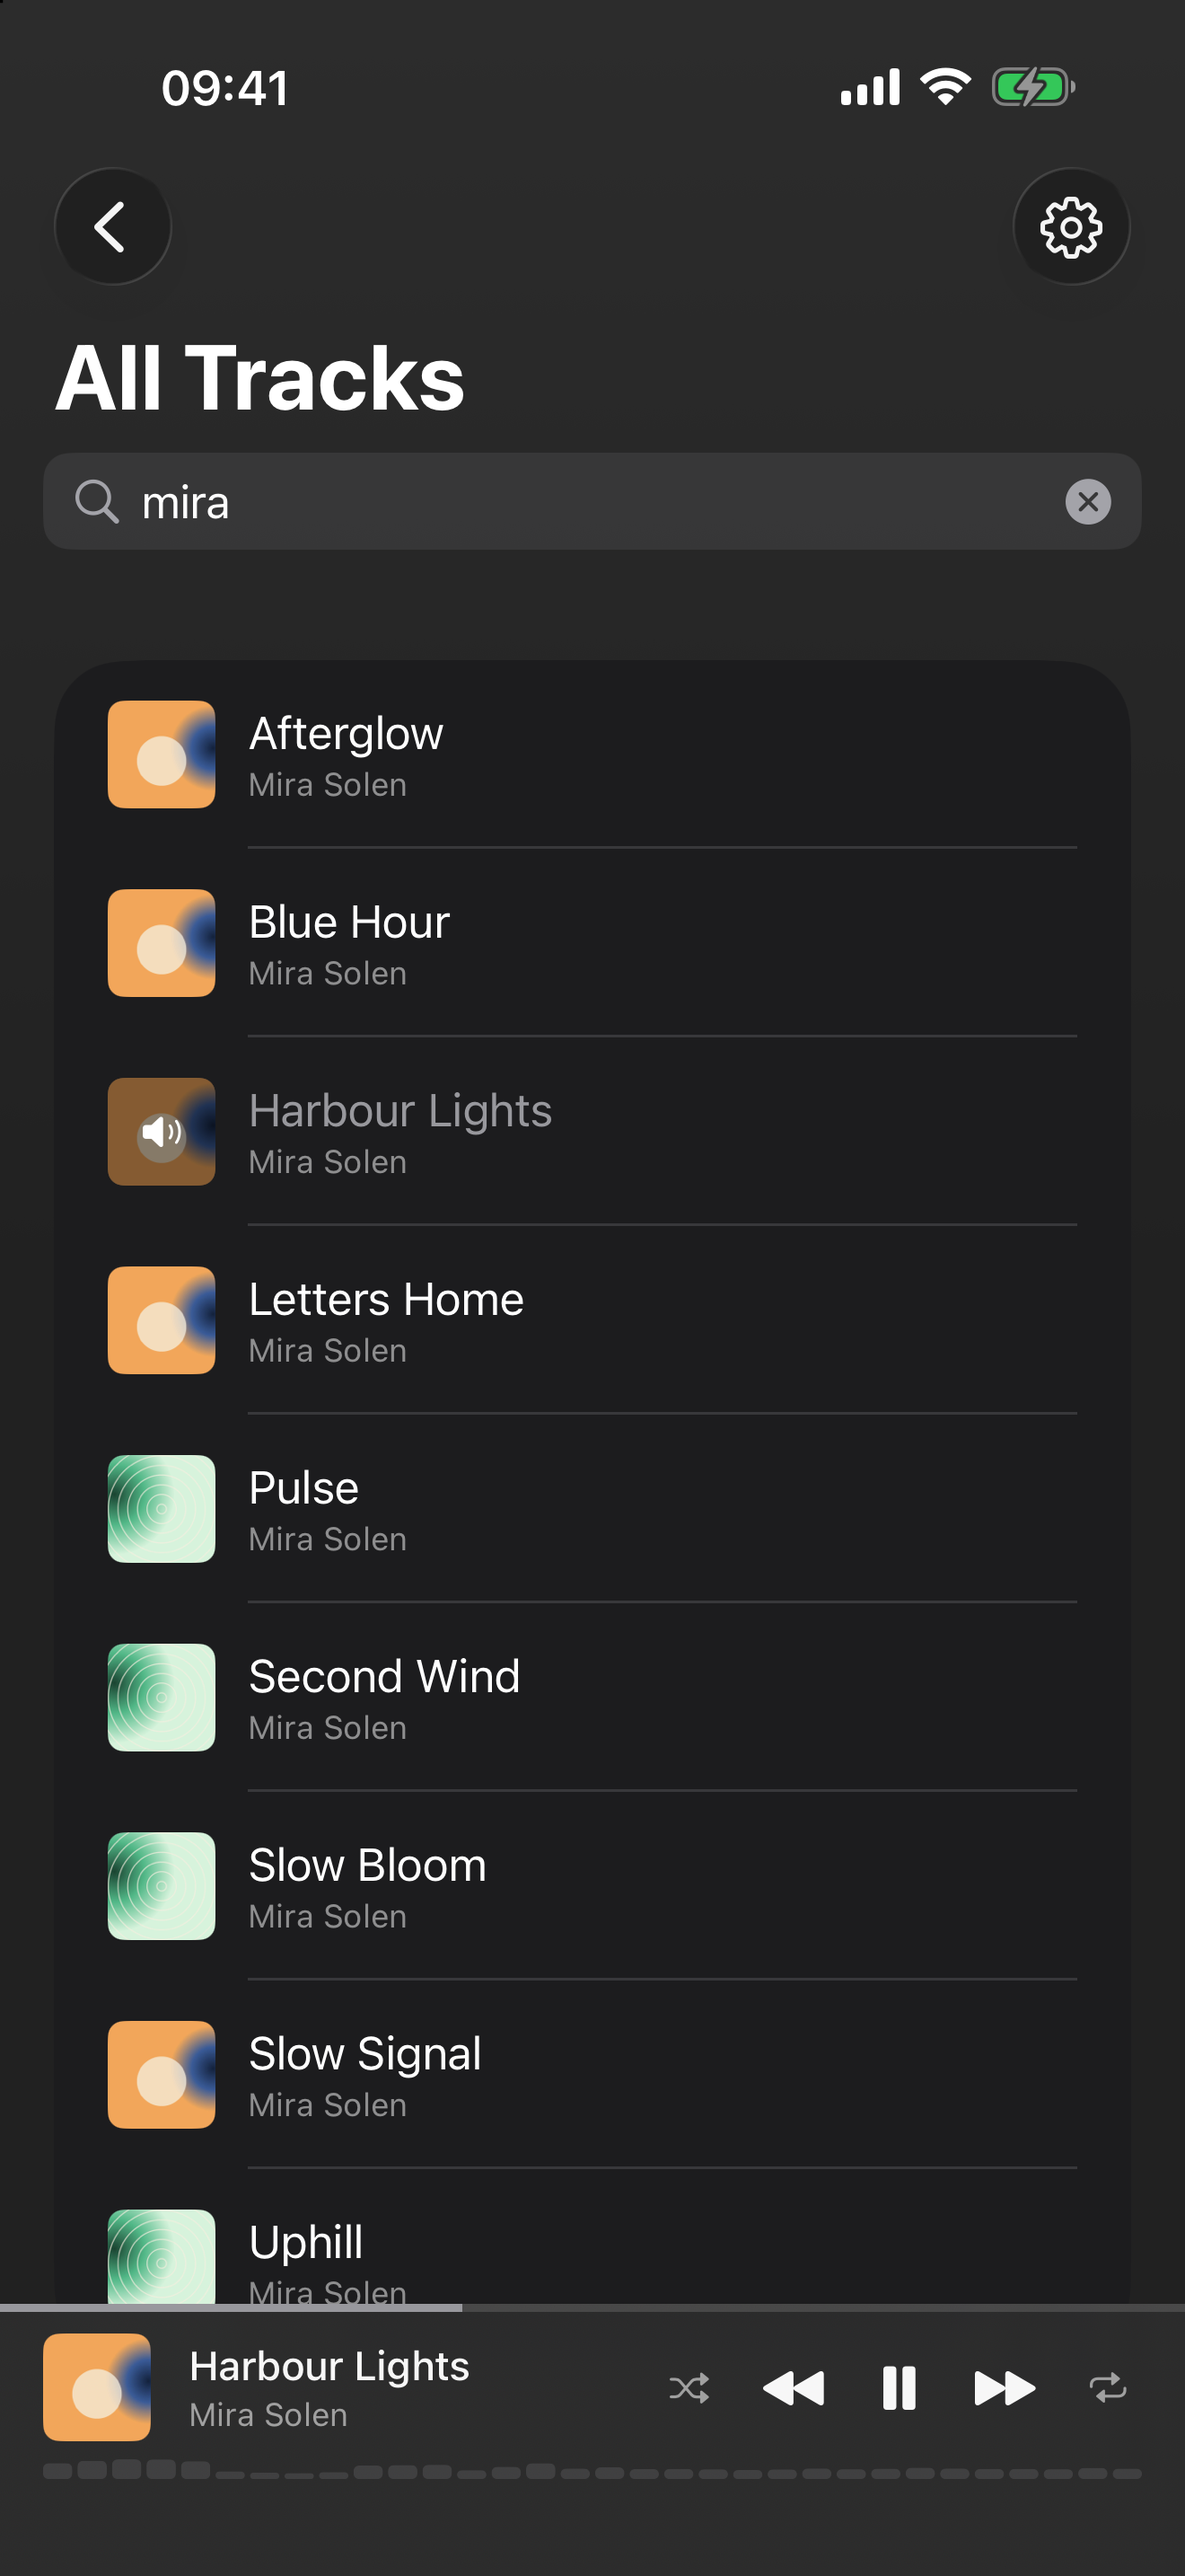
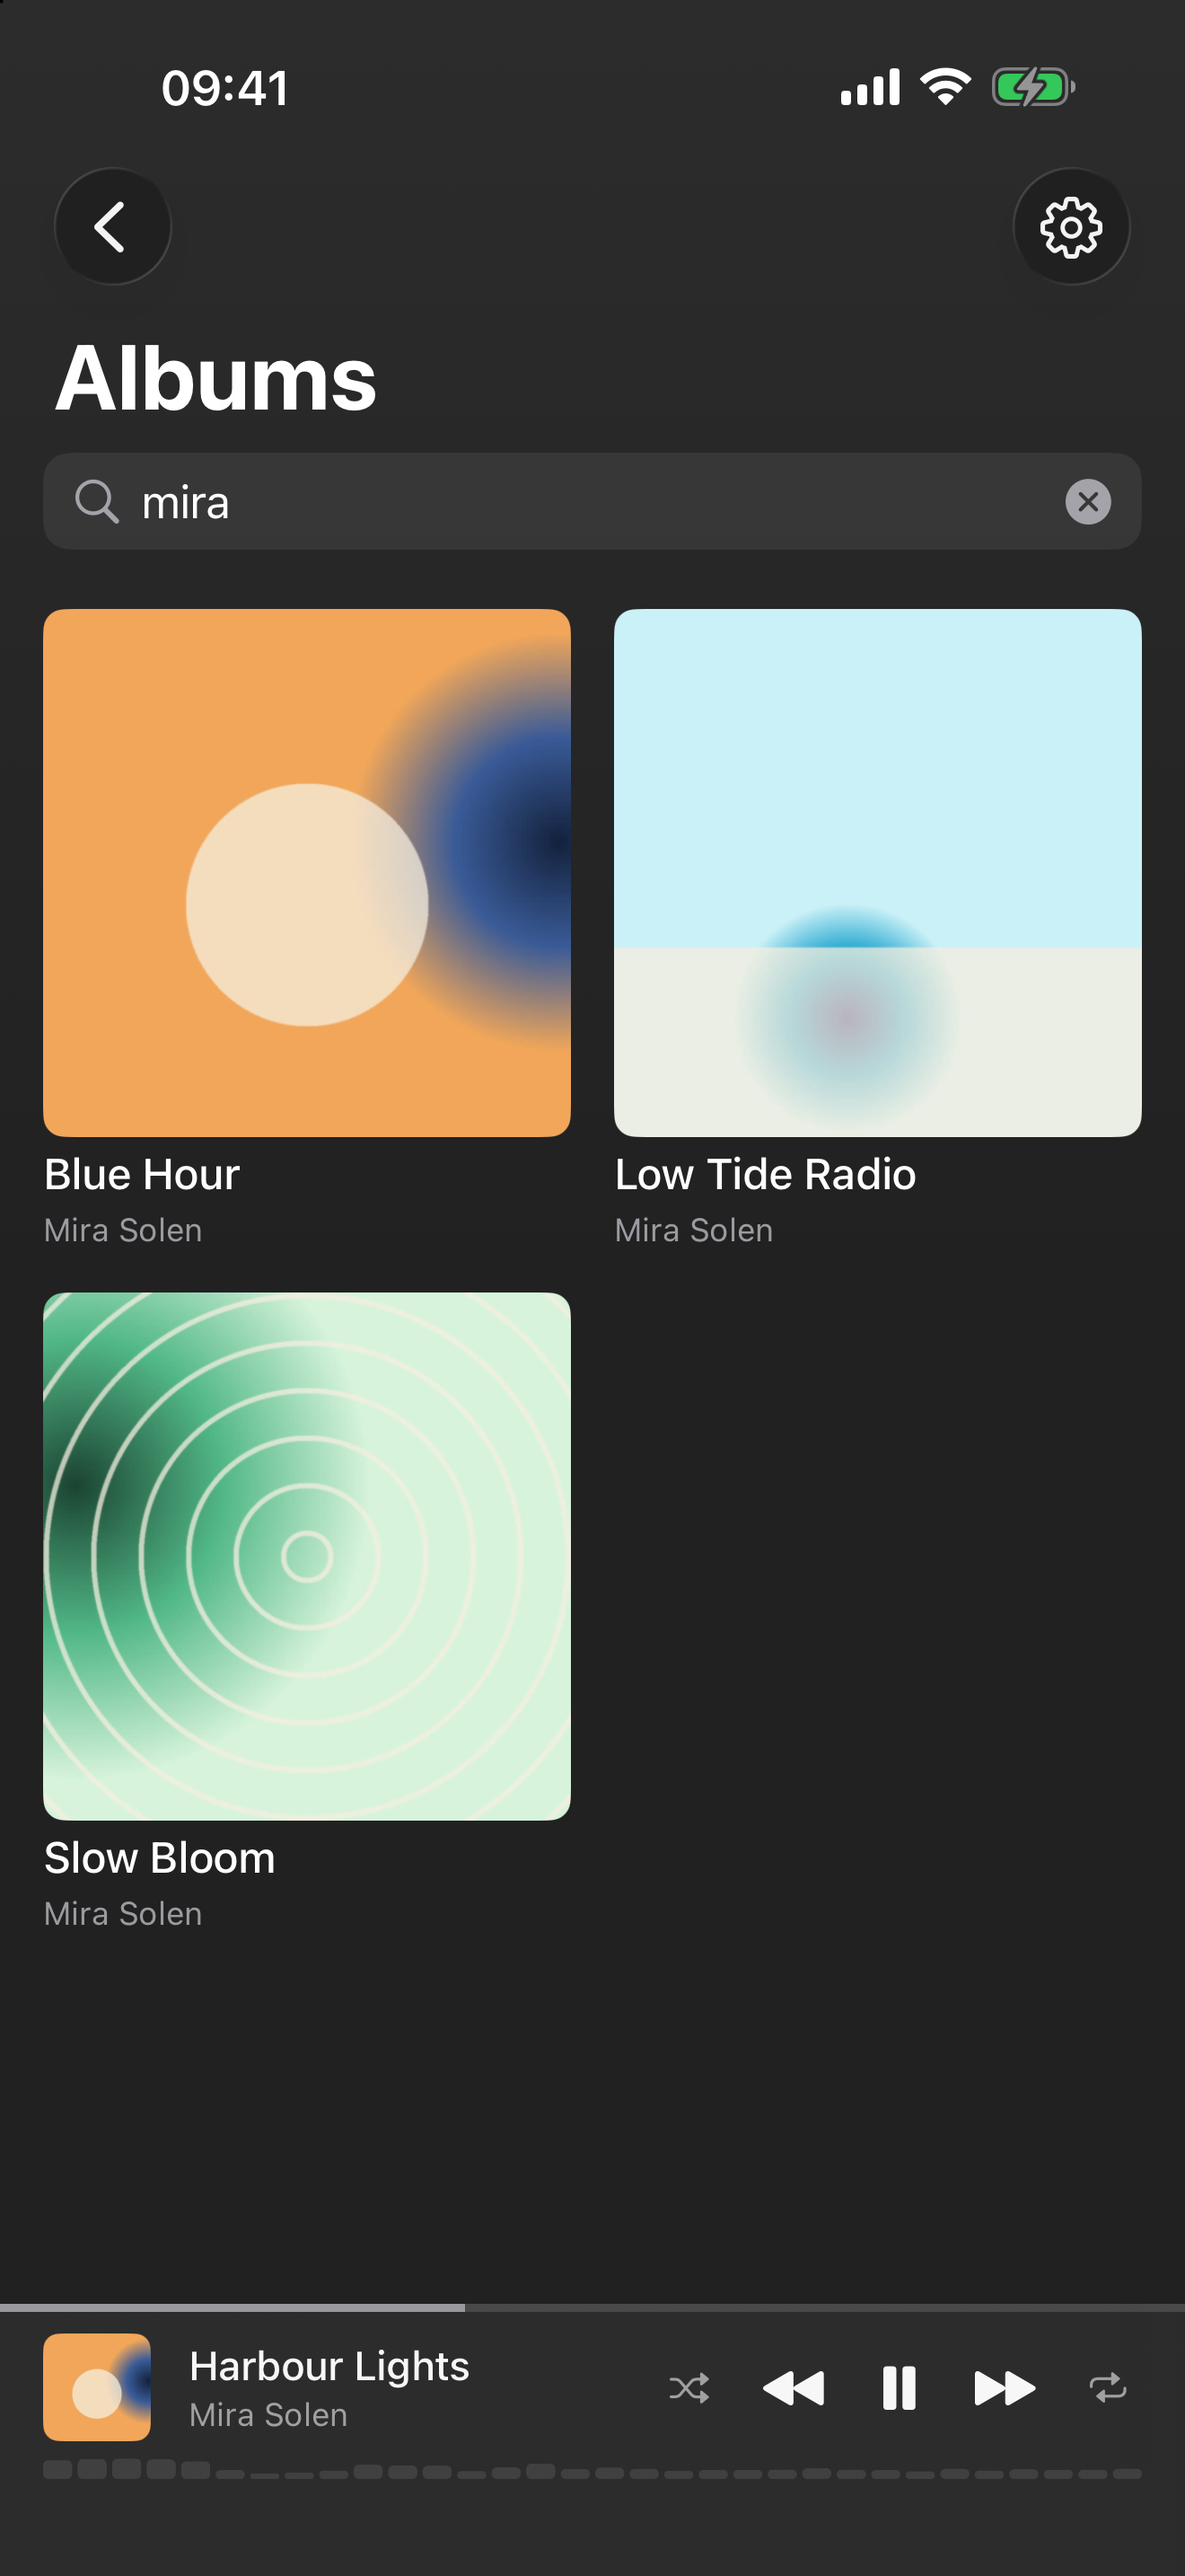
Show the album grid in the search screenshots.
The search shots had moved to All Tracks; they now filter the album grid like the other screens, with a third Mira Solen album in the demo library so the artist search shows three results. The script shoots the iPad first, since DeviceHub resets its rotation after switching to another device.

diff --git a/SwiftFlac/ContentView.swift b/SwiftFlac/ContentView.swift
@@ -384,8 +384,7 @@ struct ContentView: View {
                 player.seek(to: ScreenshotMode.startTime)
                 switch screenshot.screen {
                 case .library: mode = nil
-                case .albums: mode = .albums
-                case .search: mode = .allTracks
+                case .albums, .search: mode = .albums
                 case .folder, .nowPlaying:
                     mode = .folders
                     // Changing mode resets the path, so push after it settles.
@@ -659,11 +658,7 @@ struct TrackListView: View {
     let tracks: [Track]
     var showsArtist = true
     var onPlay: () -> Void = {}
-    #if DEBUG
-        @State private var searchText = ScreenshotMode.current?.screen == .search ? ScreenshotMode.searchQuery : ""
-    #else
-        @State private var searchText = ""
-    #endif
+    @State private var searchText = ""
 
     private var filteredTracks: [Track] {
         LibrarySearch.filter(tracks, query: searchText, name: \.displayTitle, artist: \.artist)

diff --git a/SwiftFlac/BrowseViews.swift b/SwiftFlac/BrowseViews.swift
@@ -186,7 +186,11 @@ struct ArtistsView: View {
 
 struct AlbumsView: View {
     @Environment(MusicLibrary.self) private var library
-    @State private var searchText = ""
+    #if DEBUG
+        @State private var searchText = ScreenshotMode.current?.screen == .search ? ScreenshotMode.searchQuery : ""
+    #else
+        @State private var searchText = ""
+    #endif
 
     private let columns = [GridItem(.adaptive(minimum: 140, maximum: 200), spacing: 16)]
 
